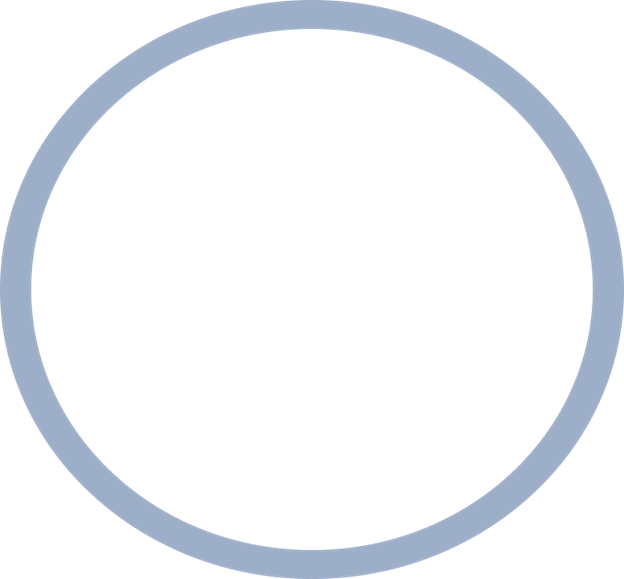
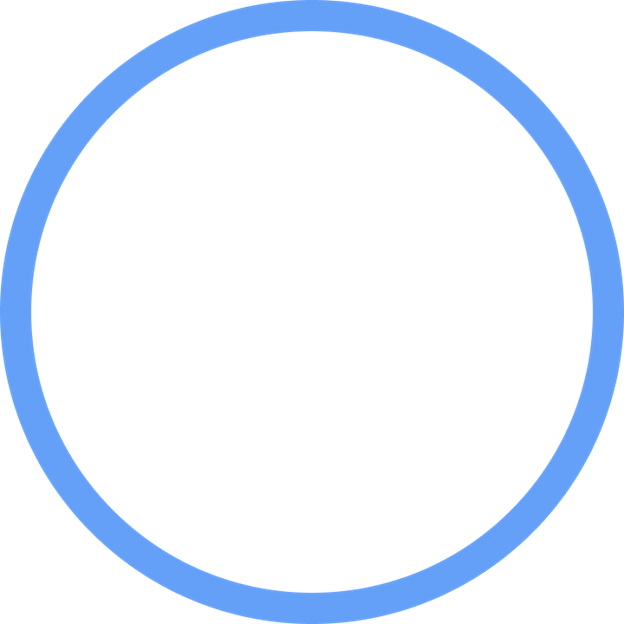
Small changes in the hero section and the color

Changed region(s): [[0.0, 0.0, 1.0, 1.0]]

diff --git a/week3/assets/styles.css b/week3/assets/styles.css
@@ -1,3 +1,4 @@
+@import url("https://fonts.googleapis.com/css2?family=Noto+Sans+JP:wght@400;500;600;700&display=swap");
 /* Resets */
 /* ======================================= */
 *,
@@ -18,7 +19,7 @@ html {
 body {
   background-color: #0a0a0a;
   color: #ebebeb;
-  font-family: "Lucida Sans", "Lucida Sans Regular", "Lucida Grande", "Lucida Sans Unicode", Geneva, Verdana, sans-serif, sans-serif;
+  font-family: "Noto Sans JP", sans-serif;
 }
 
 abbr {
@@ -32,25 +33,43 @@ p {
 /* Header styles */
 /* ======================================= */
 header {
-  padding: 15rem 0;
+  height: 100vh;
   text-align: center;
+  display: grid;
+  place-items: center;
+}
+header::before {
+  content: "";
+  position: absolute;
+  top: 50%;
+  left: 50%;
+  transform: translate(-50%, -30%);
+  width: 100%;
+  height: 100vw;
+  background: radial-gradient(circle, #2f3cad, #181f5a, #060816, #000000);
+  filter: blur(20px);
+  z-index: -1;
+}
+header .japanese {
+  margin-bottom: 1.5rem;
 }
 header h1 {
-  color: #9daec8;
-  font-size: 4rem;
+  letter-spacing: 1px;
+  font-size: 3.5rem;
   margin: 0 0 1rem;
+  font-weight: 700;
 }
-header p {
+header .subheading {
   font-size: 1rem;
-  margin-bottom: 3rem;
+  letter-spacing: 1.5px;
 }
-header p strong {
+header .subheading strong {
   font-weight: 400;
 }
 header a {
   color: #111;
   text-decoration: none;
-  background-color: #9daec8;
+  background-color: #77adff;
   padding: 0.8rem 1.5rem;
   border-radius: 0.5rem;
   transition: all 0.3s ease-in-out;
@@ -63,6 +82,7 @@ header a:hover {
 .about-me {
   padding: 5rem 10rem;
   display: flex;
+  background-color: #111;
 }
 .about-me .pic img {
   border-radius: 2rem;
@@ -78,7 +98,7 @@ header a:hover {
   margin-bottom: 0.5rem;
 }
 .about-me .desc .intro strong {
-  color: #9daec8;
+  color: #77adff;
 }
 .about-me .desc .biography,
 .about-me .desc .details {
@@ -86,7 +106,7 @@ header a:hover {
 }
 .about-me .desc .label {
   font-weight: bold;
-  color: #9daec8;
+  color: #77adff;
 }
 
 /* Quote styles */
@@ -130,7 +150,7 @@ header a:hover {
   font-size: 1.3rem;
   margin: 1.5rem 0 1rem;
   font-weight: bold;
-  color: #9daec8;
+  color: #77adff;
 }
 
 /* What I Do styles */

diff --git a/week3/index.htm b/week3/index.htm
@@ -15,17 +15,17 @@
   </head>
   <body>
     <header>
-      <h1>Jetter Garcia</h1>
-      <p>
-        A
-        <abbr title="Bachelor of Science in Information Technology">BSIT</abbr>
-        <strong>College Student</strong> at Asia Pacific College
-      </p>
-      <a href="#me">Learn More</a>
+      <div>
+        <p class="japanese">こんにちは</p>
+        <h1>I'm Jetter Garcia</h1>
+        <p class="subheading">
+          A BSIT undergraduate studying at Asia Pacific College
+        </p>
+      </div>
     </header>
 
     <main>
-      <section class="about-me" id="me">
+      <section class="about-me">
         <div class="pic">
           <img
             src="./assets/images/my_pic.jpg"
@@ -73,7 +73,7 @@
               src="https://cdn.lordicon.com/oqaajvyl.json"
               trigger="loop"
               delay="2000"
-              colors="primary:#9daec8,secondary:#9daec8"
+              colors="primary:#65a0f8,secondary:#65a0f8"
               style="width: 5rem; height: 5rem"
             >
             </lord-icon>
@@ -89,7 +89,7 @@
               src="https://cdn.lordicon.com/ipbtscff.json"
               trigger="loop"
               delay="2000"
-              colors="primary:#9daec8,secondary:#9daec8"
+              colors="primary:#65a0f8,secondary:#65a0f8"
               style="width: 5rem; height: 5rem"
             >
             </lord-icon>
@@ -105,7 +105,7 @@
               src="https://cdn.lordicon.com/pgveulug.json"
               trigger="loop"
               delay="2000"
-              colors="primary:#9daec8,secondary:#9daec8"
+              colors="primary:#65a0f8,secondary:#65a0f8"
               style="width: 5rem; height: 5rem"
             >
             </lord-icon>

diff --git a/week3/assets/styles.scss b/week3/assets/styles.scss
@@ -1,4 +1,6 @@
-$primary-color: #9daec8;
+@import url("https://fonts.googleapis.com/css2?family=Noto+Sans+JP:wght@400;500;600;700&display=swap");
+
+$primary-color: #77adff;
 $section-padding: 5rem 10rem;
 
 /* Resets */
@@ -21,8 +23,7 @@ html {
 body {
   background-color: #0a0a0a;
   color: #ebebeb;
-  font-family: "Lucida Sans", "Lucida Sans Regular", "Lucida Grande",
-    "Lucida Sans Unicode", Geneva, Verdana, sans-serif, sans-serif;
+  font-family: "Noto Sans JP", sans-serif;
 }
 
 abbr {
@@ -36,18 +37,38 @@ p {
 /* Header styles */
 /* ======================================= */
 header {
-  padding: 15rem 0;
+  height: 100vh;
   text-align: center;
+  display: grid;
+  place-items: center;
 
-  h1 {
-    color: $primary-color;
-    font-size: 4rem;
-    margin: 0 0 1rem;
+  &::before {
+    content: "";
+    position: absolute;
+    top: 50%;
+    left: 50%;
+    transform: translate(-50%, -30%);
+    width: 100%;
+    height: 100vw; // Use 100vw for a perfect circle
+    background: radial-gradient(circle, #2f3cad, #181f5a, #060816, #000000);
+    filter: blur(20px);
+    z-index: -1;
   }
 
-  p {
+  .japanese {
+    margin-bottom: 1.5rem;
+  }
+
+  h1 {
+    letter-spacing: 1px;
+    font-size: 3.5rem;
+    margin: 0 0 1rem;
+    font-weight: 700;
+  }
+
+  .subheading {
     font-size: 1rem;
-    margin-bottom: 3rem;
+    letter-spacing: 1.5px;
 
     strong {
       font-weight: 400;
@@ -72,6 +93,7 @@ header {
 .about-me {
   padding: $section-padding;
   display: flex;
+  background-color: #111;
 
   .pic img {
     border-radius: 2rem;
